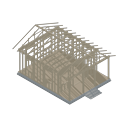
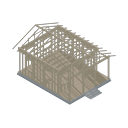
Starter house: close the gap between the wall tops and the roof
The roof was raised onto the plates but the cladding stopped at the plates. Side walls are now clad right up to the roof,
the gable ends fill the whole space under it, and the framing has blocking up to the rafters.

diff --git a/tools/make_house_stages.py b/tools/make_house_stages.py
@@ -195,6 +195,26 @@ def trim_box(b, c, wall, u0, u1, za, zb, d0, d1, m, to=None):
         target.box(c.w / 2 - d1, c.w / 2 - d0, u0, u1, za, zb, m)
 
 
+def wall_top(c, wall):
+    """Where the cladding of a wall ends: the front and back walls at the plates (a gable stands on them), the side walls right up to the roof."""
+    return c.zw + 0.05 if wall in ('left', 'right') else c.top + 0.18
+
+
+def gable_poly(builder, c, y, thick, m):
+    """The gable end wall: from the plates up to the roof underside, no gap between them."""
+    w = c.w
+    i = builder.mat_index(m)
+    pts = [(-w / 2, c.top + 0.18), (w / 2, c.top + 0.18), (w / 2, c.zw - 0.07), (0.0, c.zr - 0.05), (-w / 2, c.zw - 0.07)]
+    front = [builder.bm.verts.new((x, y - thick / 2, z)) for x, z in pts]
+    back = [builder.bm.verts.new((x, y + thick / 2, z)) for x, z in pts]
+    faces = [builder.bm.faces.new(front[::-1]), builder.bm.faces.new(back)]
+    for k in range(len(pts)):
+        n = (k + 1) % len(pts)
+        faces.append(builder.bm.faces.new((front[k], front[n], back[n], back[k])))
+    for f in faces:
+        f.material_index = i
+
+
 # ------------------------------------------------------------------ stages
 
 def framing(b, c, M):
@@ -235,6 +255,8 @@ def framing(b, c, M):
         # double top plate
         wall_box(b, c, wall, T_SIDING + T_SHEATH, T_SIDING + T_SHEATH + T_STUD, top, top + 0.09, M['lumber'], openings=[])
         wall_box(b, c, wall, T_SIDING + T_SHEATH, T_SIDING + T_SHEATH + T_STUD, top + 0.09, top + 0.18, M['lumber'], openings=[])
+        if wall in ('left', 'right'):   # blocking up to the rafters
+            wall_box(b, c, wall, T_SIDING + T_SHEATH, T_SIDING + T_SHEATH + T_STUD, top + 0.18, c.zw + 0.05, M['lumber'], openings=[])
     # ceiling joists across the house at 0.6 m, porch posts and beam, then the roof framing
     n = int((d / 2 - c.yh0) / 0.6) + 1
     for k in range(n):
@@ -266,7 +288,7 @@ def walls_stage(b, c, M):
     z0, top = c.z0, c.top
     # sheathing over the studs on all four walls, openings left clear
     for wall in ('front', 'back', 'left', 'right'):
-        wall_box(b, c, wall, T_SIDING, T_SIDING + T_SHEATH, z0, top + 0.18, M['osb'], gap_pad=0.0, inset=T_SIDING)
+        wall_box(b, c, wall, T_SIDING, T_SIDING + T_SHEATH, z0, wall_top(c, wall), M['osb'], gap_pad=0.0, inset=T_SIDING)
     # sheathed roof deck, in two sheets a side with a gap left at the ridge for the cap
     roof_deck(b, c, M['osb'], 0.04)
     porch_floor(b, c, M)
@@ -295,12 +317,12 @@ def complete(b, c, M, glass, finishings=False):
     h = foundation(b, c, M)
     b.box(-w / 2 + 0.02, w / 2 - 0.02, -d / 2 + 0.02, d / 2 - 0.02, h, z0, M['floor'])                       # interior floor / subfloor
     for wall in ('front', 'back', 'left', 'right'):
-        wall_box(parts[wall], c, wall, T_SIDING, T_SIDING + T_SHEATH + T_STUD, z0, top + 0.18, M['osb'], inset=T_SIDING)
+        wall_box(parts[wall], c, wall, T_SIDING, T_SIDING + T_SHEATH + T_STUD, z0, wall_top(c, wall), M['osb'], inset=T_SIDING)
         # clapboard siding: 0.24 m courses, each lapping the one below
         zc = z0
         k = 0
-        while zc < top + 0.18 - 0.02:
-            zb = min(zc + 0.24, top + 0.18)
+        while zc < wall_top(c, wall) - 0.02:
+            zb = min(zc + 0.24, wall_top(c, wall))
             wall_box(parts[wall], c, wall, 0.0, T_SIDING, zc, zb, M['siding'], gap_pad=0.07, inset=0.0)
             zc = zb
             k += 1
@@ -312,7 +334,7 @@ def complete(b, c, M, glass, finishings=False):
             wall_box(parts[wall], c, wall, ti + 0.02, ti + 0.04, z0 + 0.03, z0 + 0.14, M['trim'], inset=ti + 0.04)
     # corner boards
     for (x, y) in ((-w / 2, c.yh0), (w / 2 - 0.08, c.yh0), (-w / 2, d / 2 - 0.08), (w / 2 - 0.08, d / 2 - 0.08)):
-        b.box(x, x + 0.08, y, y + 0.08, z0, top + 0.18, M['trim'])
+        b.box(x, x + 0.08, y, y + 0.08, z0, c.zw + 0.05, M['trim'])
     # window trim, glass, shutters on the front windows
     for wall in ('front', 'back', 'left', 'right'):
         for i, (u0, u1, zl, zh) in enumerate(c.openings[wall]):
@@ -320,7 +342,7 @@ def complete(b, c, M, glass, finishings=False):
                 window_dressing(parts[wall], c, M, M['glass'], wall, u0, u1, zl, zh, shutters=(wall == 'front'))
     # gable ends, clad: triangles with a vent window on the front
     for y in (-d / 2 + 0.1, d / 2 - 0.04):
-        parts['front' if y < 0 else 'back'].prism_gable(-w / 2, w / 2, y, 0.06, c.zw - 0.07, c.zr - 0.05, M['siding'])
+        gable_poly(parts['front' if y < 0 else 'back'], c, y, 0.06, M['siding'])
     # a small round-ish vent in the front gable
     parts['front'].box(-0.22, 0.22, -d / 2 + 0.05, -d / 2 + 0.08, top + 0.85, top + 1.25, M['trim'])
     glass_builder.box(-0.18, 0.18, -d / 2 + 0.04, -d / 2 + 0.065, top + 0.89, top + 1.21, M['glass'])
